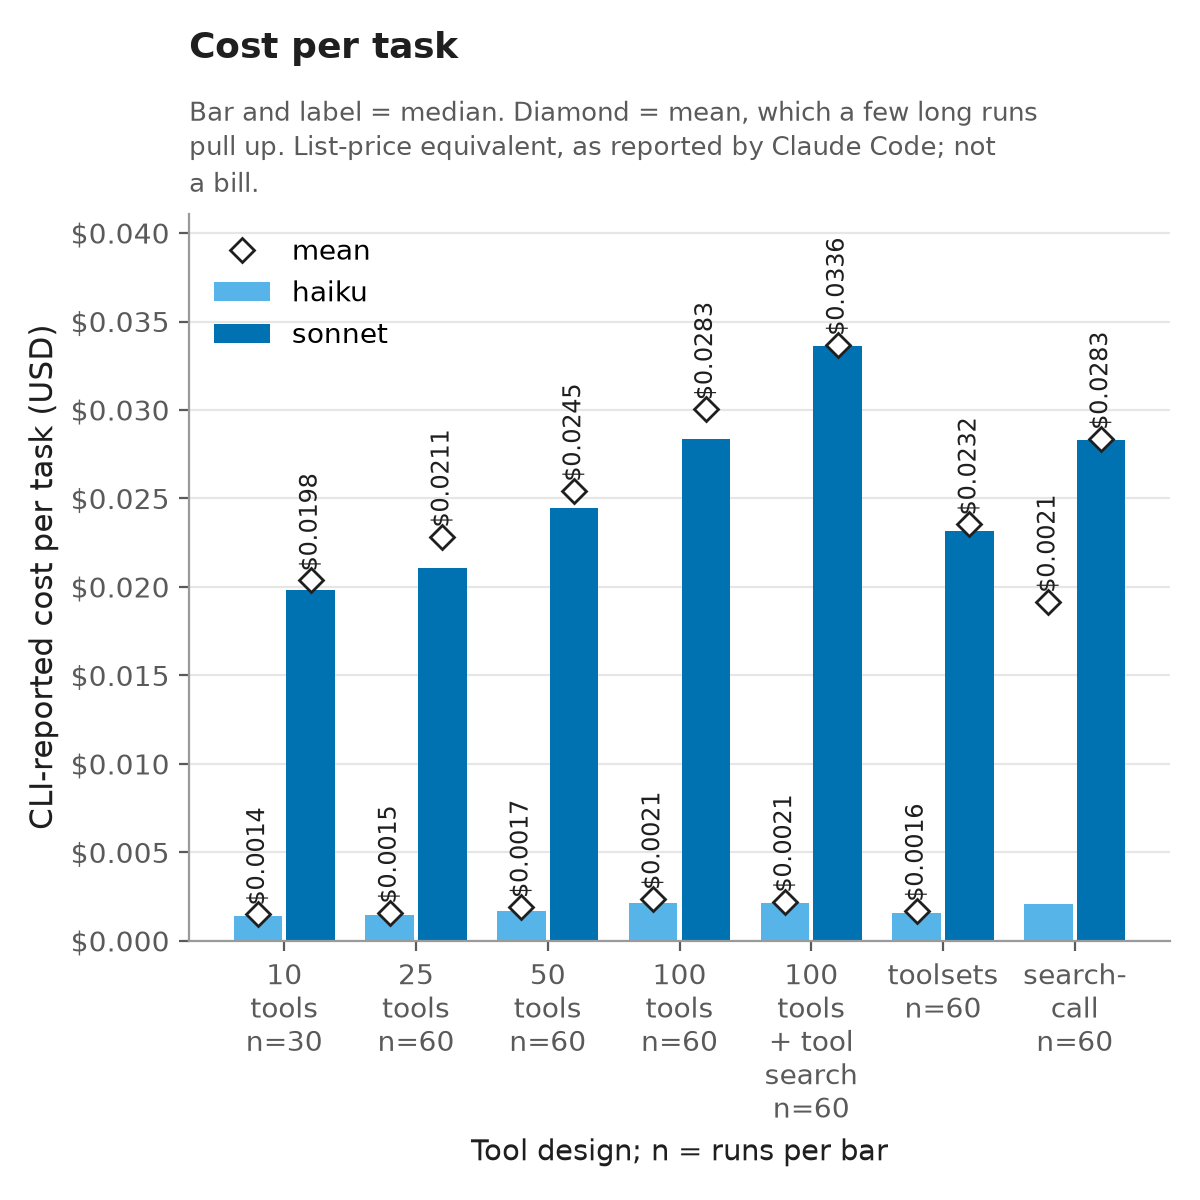
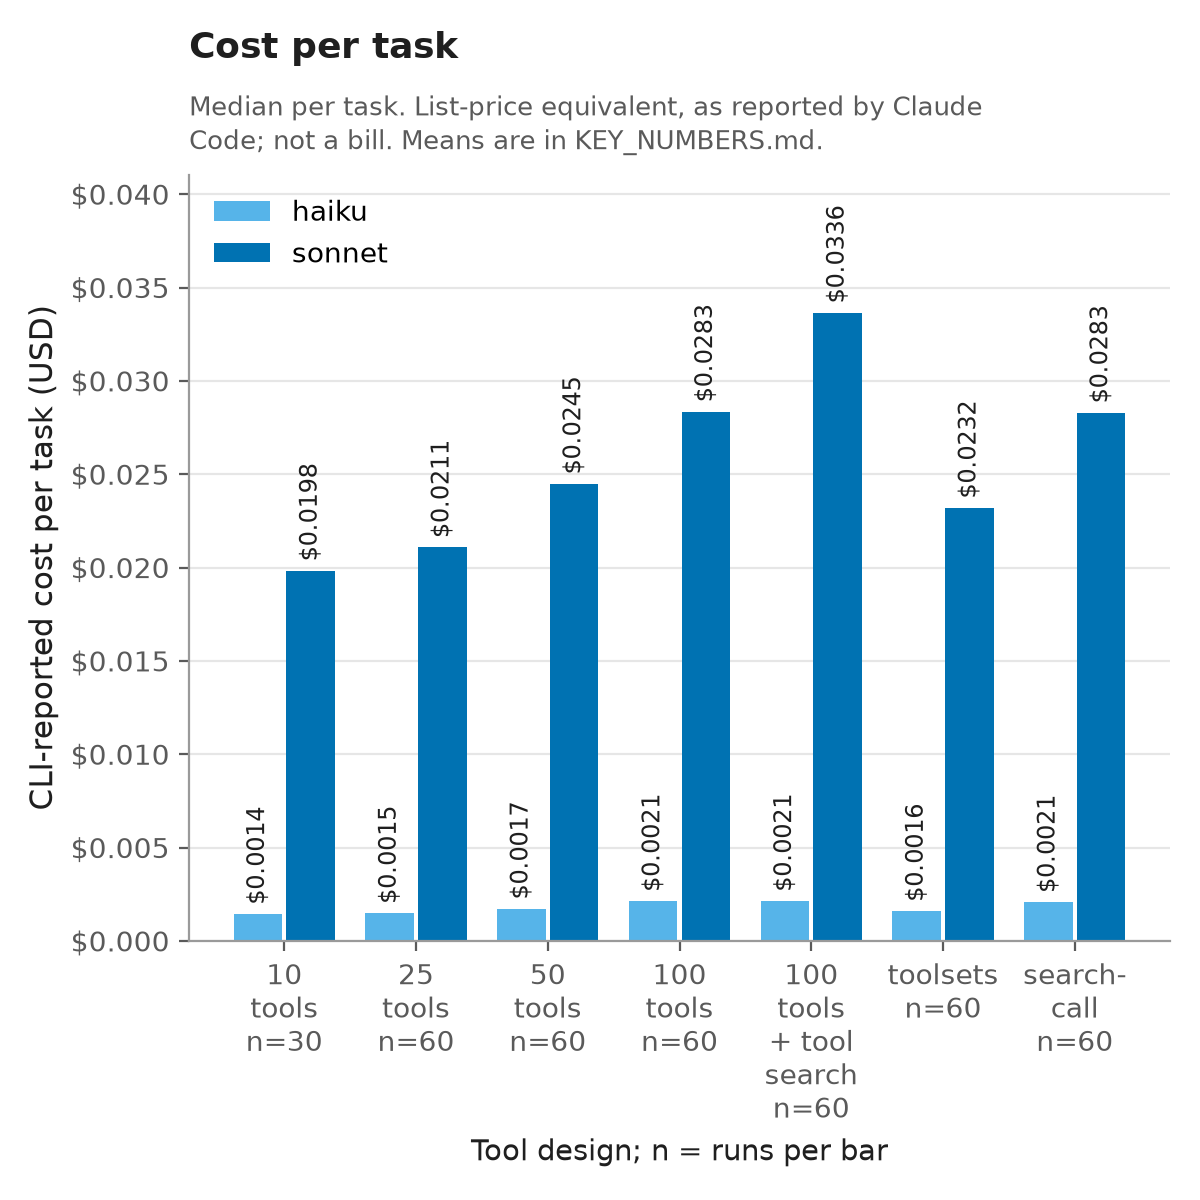
fix(bench): label cost chart bars at the median and drop the mean markers

diff --git a/bench/harness/report.py b/bench/harness/report.py
@@ -852,35 +852,13 @@ def chart_cost(tasks: list[dict[str, Any]], path: Path) -> bool:
             r["total_cost_usd"] for r in done if r["variant"] == v and r["model_requested"] == m
         ]
 
-    def mean_of(v: str, m: str) -> float | None:
-        xs = vals(v, m)
-        return sum(xs) / len(xs) if xs else None
-
     _grouped_bars(
         ax,
         variants,
         models,
         lambda v, m: median(vals(v, m)),
         lambda y: f"${y:.4f}",
-        label_y=mean_of,
     )
-    width = 0.8 / len(models)
-    for j, model in enumerate(models):
-        for i, v in enumerate(variants):
-            xs = vals(v, model)
-            if xs:
-                ax.plot(
-                    i + (j - (len(models) - 1) / 2) * width,
-                    sum(xs) / len(xs),
-                    "D",
-                    color="white",
-                    markeredgecolor=INK,
-                    markersize=6,
-                    zorder=5,
-                    label="mean" if (i, j) == (0, 0) else None,
-                )
-    top = max(sum(vals(v, m)) / len(vals(v, m)) for v in variants for m in models if vals(v, m))
-    ax.set_ylim(0, max(ax.get_ylim()[1], top * 1.1))
     _n_ticks(ax, variants, done)
     ax.set_xlabel("Tool design; n = runs per bar", color=INK, fontsize=10.5)
     ax.set_ylabel("CLI-reported cost per task (USD)", color=INK, fontsize=11)
@@ -890,8 +868,8 @@ def chart_cost(tasks: list[dict[str, Any]], path: Path) -> bool:
         fig,
         ax,
         "Cost per task",
-        "Bar and label = median. Diamond = mean, which a few long runs pull up.\n"
-        "List-price equivalent, as reported by Claude Code; not a bill.",
+        "Median per task. List-price equivalent, as reported by Claude Code;\n"
+        "not a bill. Means are in KEY_NUMBERS.md.",
         path,
     )
     return True
